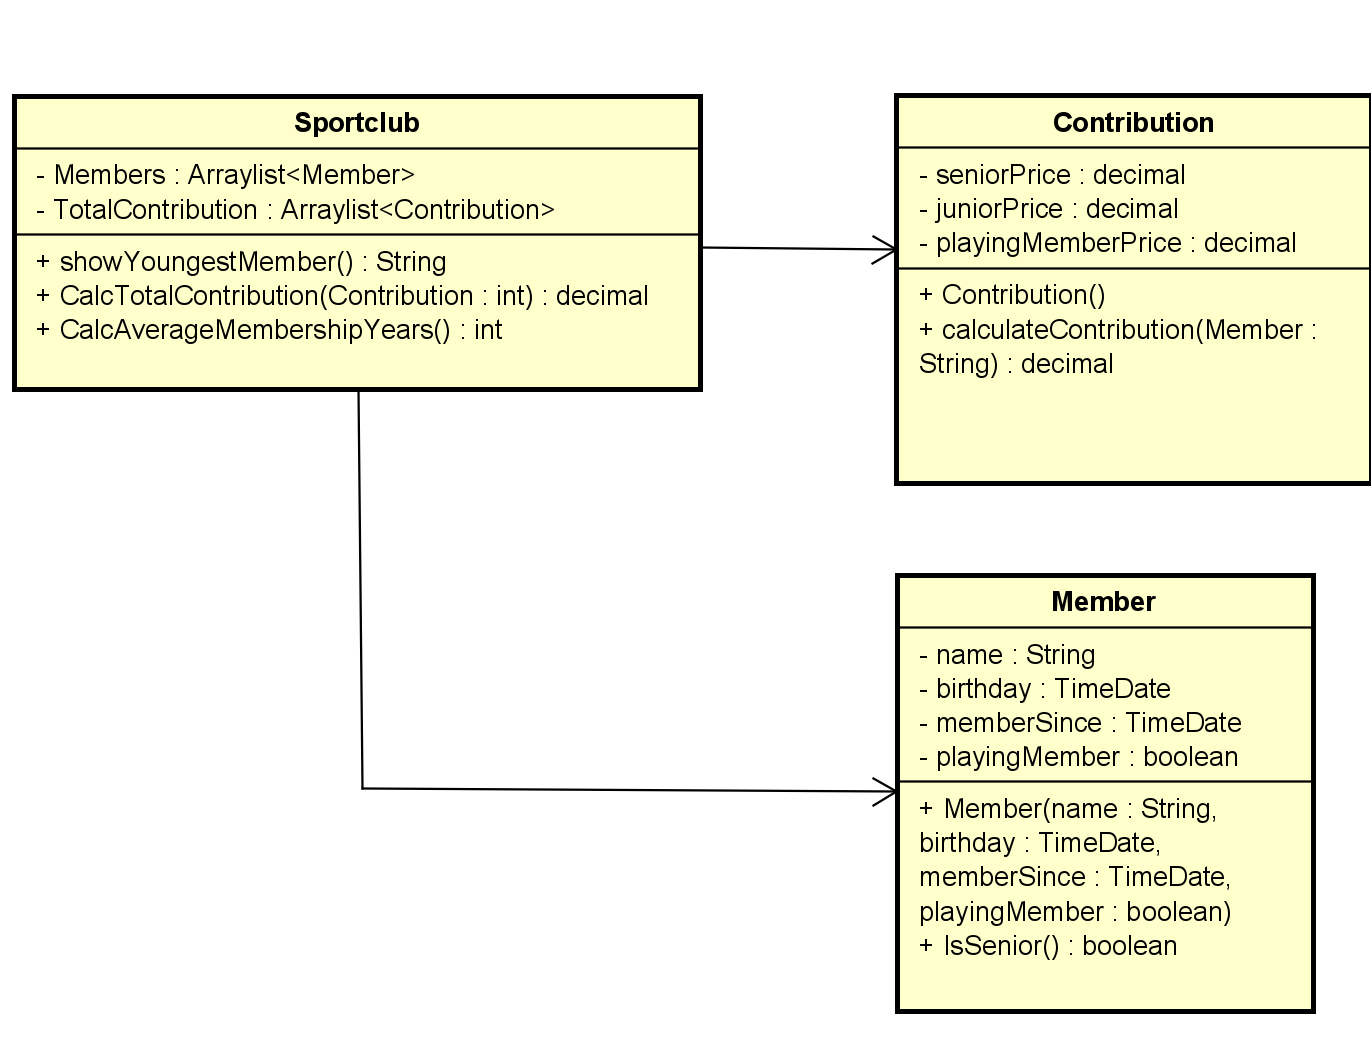
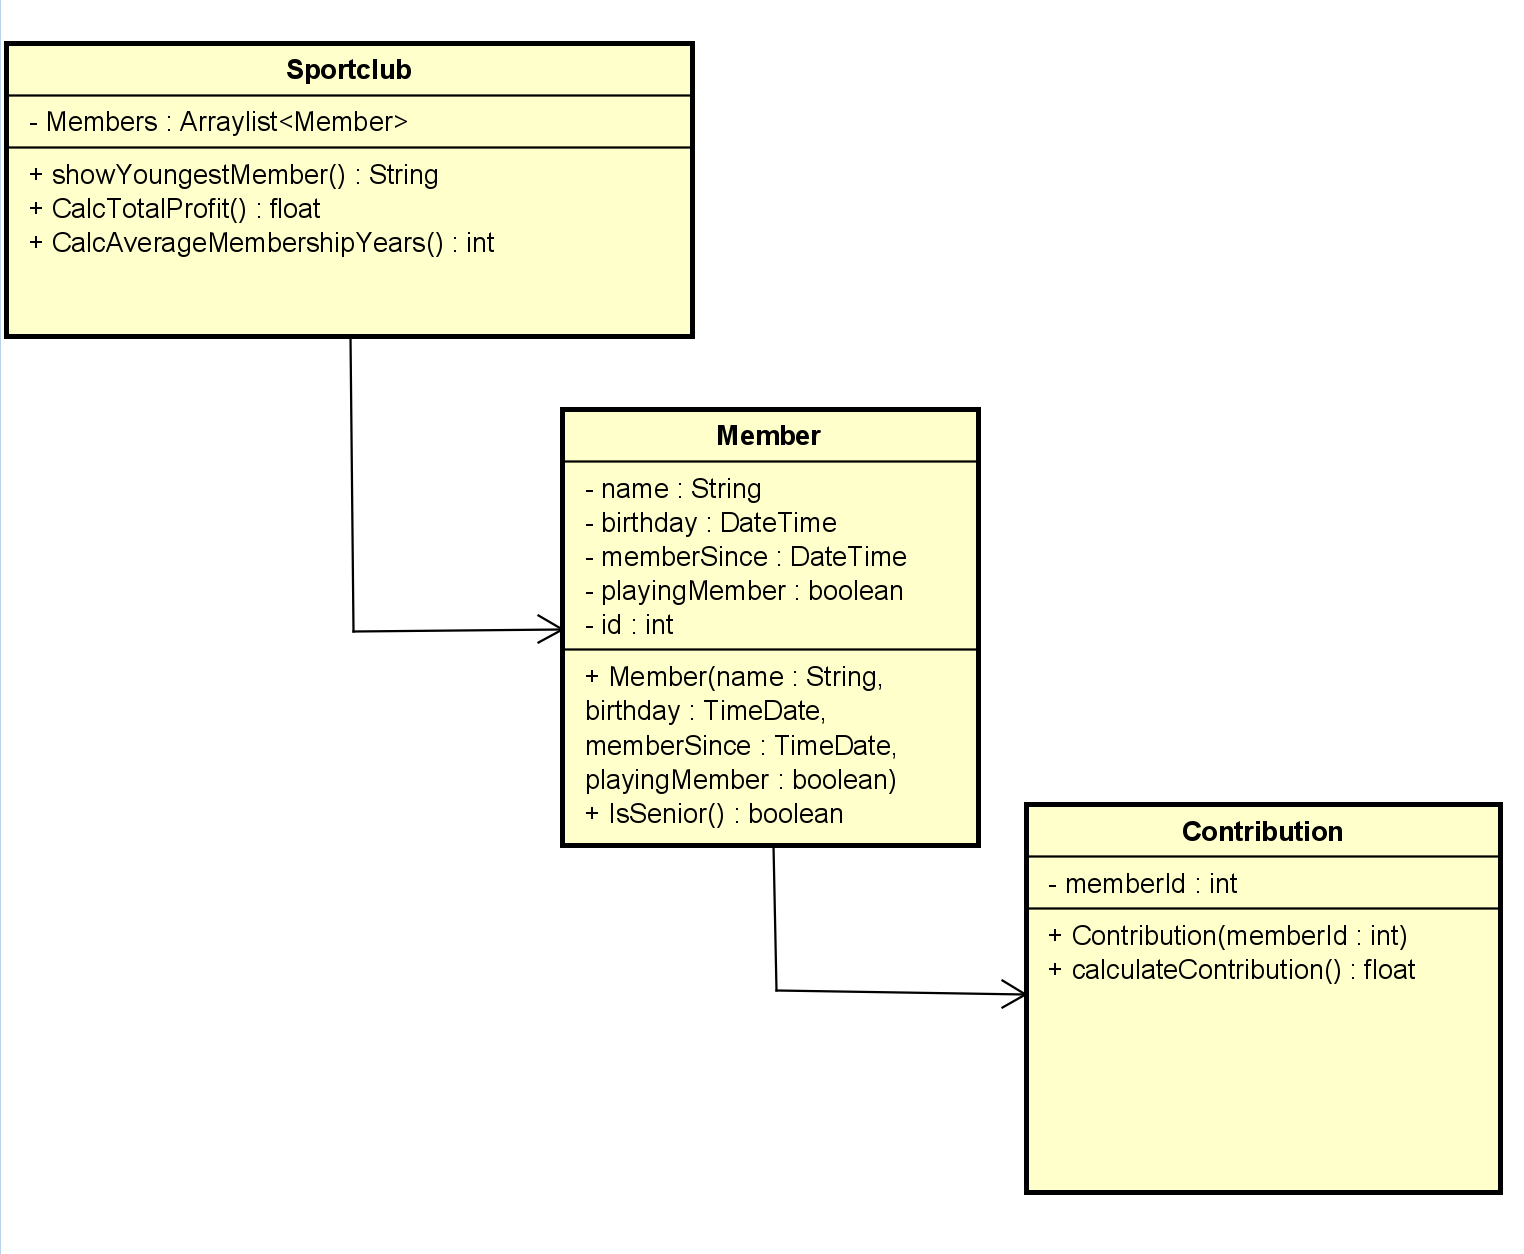
added GUI and changed UML diagram

diff --git a/STARTDOCUMEND.md b/STARTDOCUMEND.md
@@ -26,17 +26,21 @@ In the table below all the input (that the user has to input in order to make th
 
 |Case|Type|Conditions|
 |----|----|----------|
+|Name of Sportclub|`String`|not empty|
 |Name Of Member|`String` |not empty|
-|DOB of Member|`dd:mm:yyyy` |not empty|
+|DOB of Member|`DateTime` |dd-mm-yyyy|
 |Member since date|`dd:mm:yyyy`|not empty|
-|PLayingMember|`boolean`|not empty|
+|PlayingMember|`boolean`|not empty|
+|Member ID|`int`|not empty|
 
 #### Output
 
 |Case|Type|
 |----|----|
-|Customers from a certain city|`ArrayList<Member>`|
-|Total contribution of all the members in the sportclub|`ArrayList<Contribution>`|
+|The cumulative total contribution price|`float`|
+|Youngest member at the sportclub|`String`|
+|The average number of membership years|`int`|
+|Contribution price for a member|`float`|
 
 
 #### Calculations
@@ -53,9 +57,13 @@ In the table below all the input (that the user has to input in order to make th
 * Only the Main class will contain `System.out.println`
 * Unit Tests will be provided.
 
+## Lay-out of GUI
+
+![GUI](img/GUI.png "First Version of the GUI")
+
 ## Class Diagram
 
-![Class Diagram](img/contribution.png "First Version of the class diagram")
+![Class Diagram](img/contribution.png "Second Version of the class diagram")
 
 ## Testplan
 
